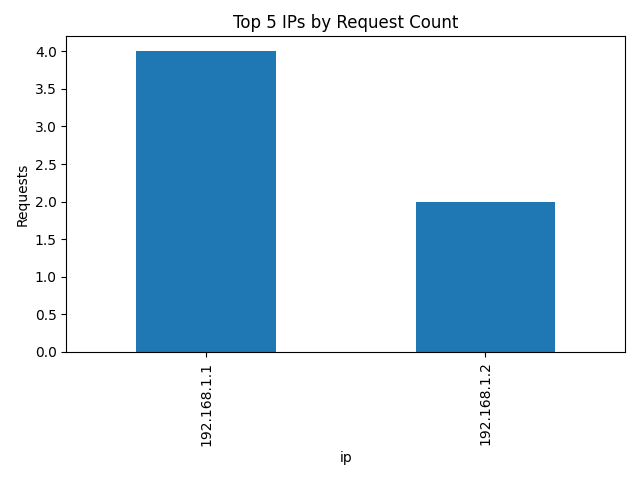
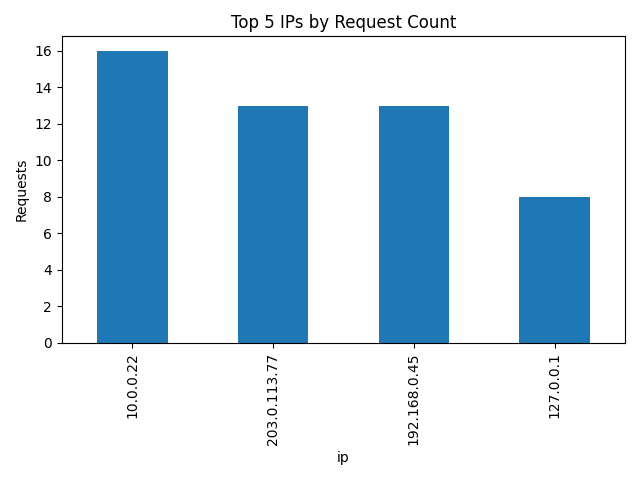
Final Version

diff --git a/analyser.py b/analyser.py
@@ -1,29 +1,67 @@
 import sys
-from logParser import parse_log
 from suspicious import detect_suspicious
 from visualiser import plot_requests_per_ip
+import pandas as pd
+
+from parsers.apacheParser import parse_apache_log
+from parsers.logParser import parse_log
+import re
+from parsers.authParser import parse_auth_log
+
+def detect_bruteforce(df: pd.DataFrame):
+    """Detect brute force SSH attempts (too many failures from same IP)."""
+    failed = df[df["status"] == "failed"]
+    suspicious = failed["ip"].value_counts()
+    return suspicious[suspicious > 5]  # threshold
+
+def guess_log_type(filepath: str) -> str:
+    with open(filepath, "r") as f:
+        sample = f.read(500).lower()  # lowercase for matching
+        if "sshd" in sample or "failed password" in sample or "accepted password" in sample:
+            return "auth"
+        if any(method in sample for method in ["get", "post", "head", "put", "delete", "http"]):
+            return "apache"
+    return "unknown"
 
 def main(log_file):
-    df = parse_log(log_file)
+    log_type = guess_log_type(log_file)
+    print(f"🔍 Detected log type: {log_type}")
+
+    if log_type == "apache":
+        df = parse_apache_log(log_file)
+    elif log_type == "auth":
+        df = parse_auth_log(log_file)
+    else:
+        print("❌ Could not determine log type. Please check the file.")
+        return
+
     if df.empty:
         print("❌ No valid log entries found.")
         return
 
     print("✅ Parsed log file successfully.")
-    alerts = detect_suspicious(df)
 
-    if alerts:
-        print("\n🚨 Suspicious Activity Detected:")
-        for alert in alerts:
-            print(alert)
-    else:
-        print("\n✅ No suspicious activity found.")
-
-    plot_requests_per_ip(df)
-    print("📊 Report saved to output_reports/traffic.png")
+    if log_type == "apache":
+        alerts = detect_suspicious(df)
+        if alerts:
+            print("\n🚨 Suspicious Activity Detected (Apache logs):")
+            for alert in alerts:
+                print(alert)
+        else:
+            print("\n✅ No suspicious activity found in Apache logs.")
+        plot_requests_per_ip(df)
+        print("📊 Apache traffic report saved to output_reports/traffic.png")
+    elif log_type == "auth":
+        brute_ips = detect_bruteforce(df)
+        if not brute_ips.empty:
+            print("\n🚨 Possible brute force detected:")
+            for ip, count in brute_ips.items():
+                print(f"- {ip} → {count} failed attempts")
+        else:
+            print("\n✅ No brute force attempts detected in auth logs.")
 
 if __name__ == "__main__":
     if len(sys.argv) < 2:
-        print("Usage: python analyzer.py logs/sample.log")
+        print("Usage: python analyser.py logs/sample.log")
     else:
         main(sys.argv[1])

diff --git a/parsers/authParser.py b/parsers/authParser.py
@@ -1,5 +1,5 @@
-import re
-import pandas as pd
+import re 
+import pandas as pd 
 
 def parse_auth_log(filepath: str) -> pd.DataFrame:
     """Parse Linux auth.log for SSH activity."""
